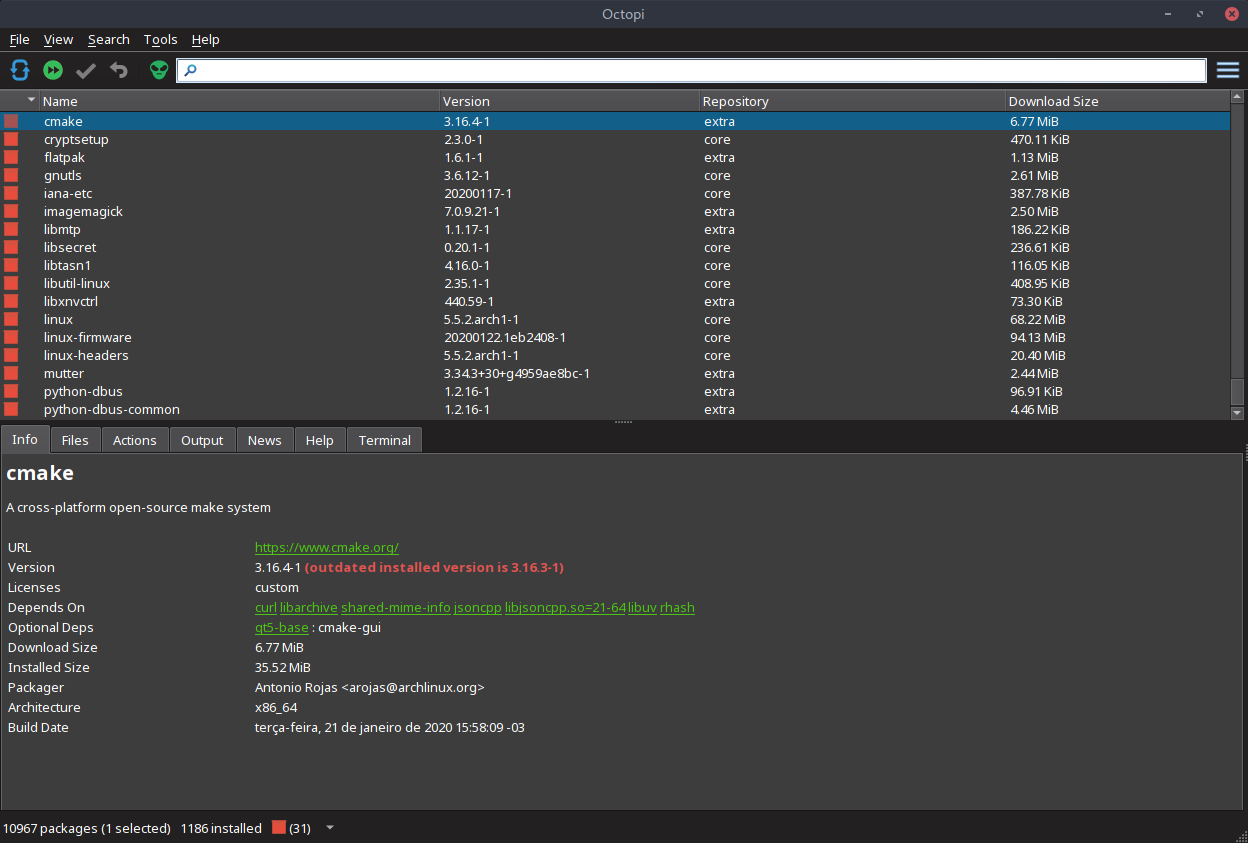
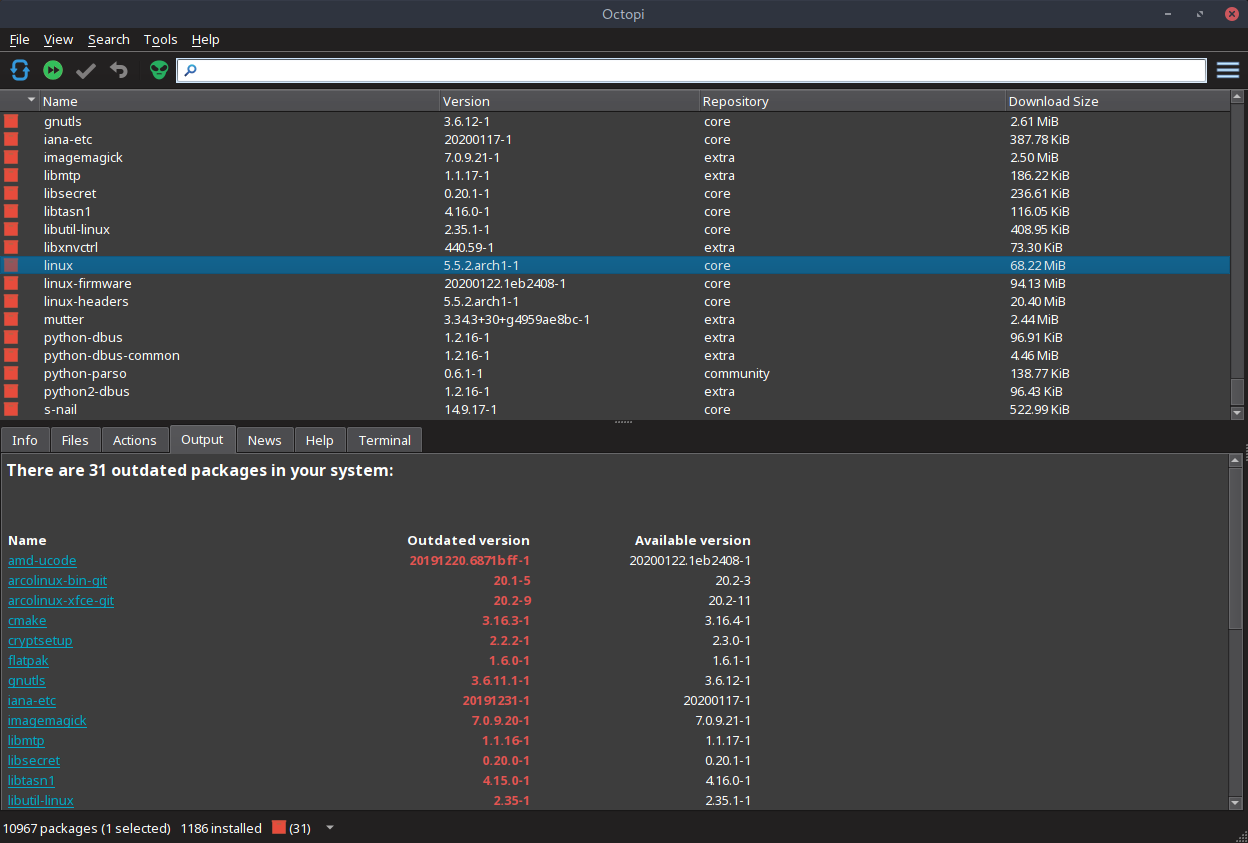
- Updated hyperlink color.

diff --git a/src/constants.h b/src/constants.h
@@ -55,7 +55,7 @@ const QString ctn_OCTOPI_COPYRIGHT =
     "*"
     "*/";
 
-const QString hyperlinkColor("#4BC413");
+const QString hyperlinkColor("#00A8CB"); //#4BC413");
 
 enum CommandExecuting { ectn_NONE, ectn_CHECK_UPDATES, ectn_MIRROR_CHECK,
                         ectn_SYNC_DATABASE, ectn_SYSTEM_UPGRADE, ectn_INSTALL, ectn_REMOVE,
